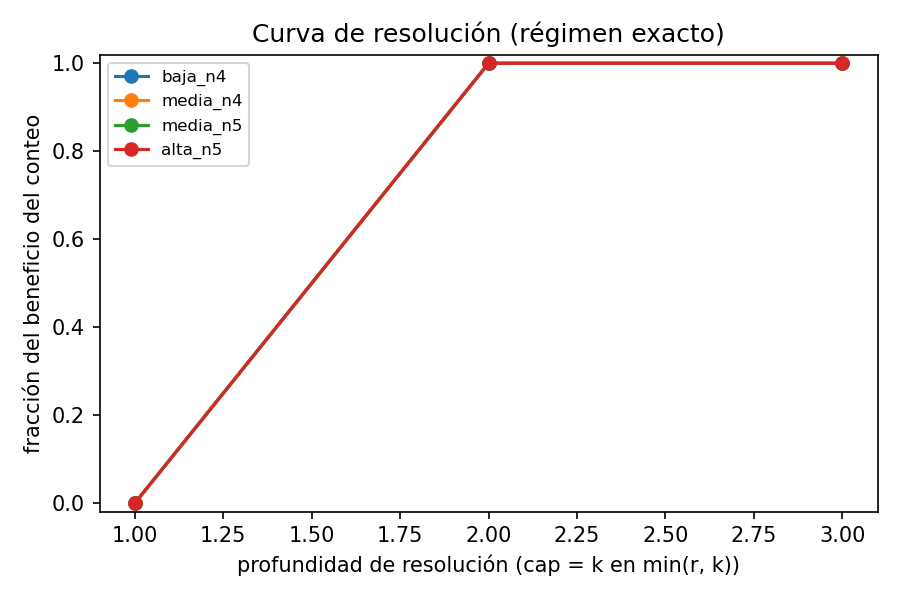
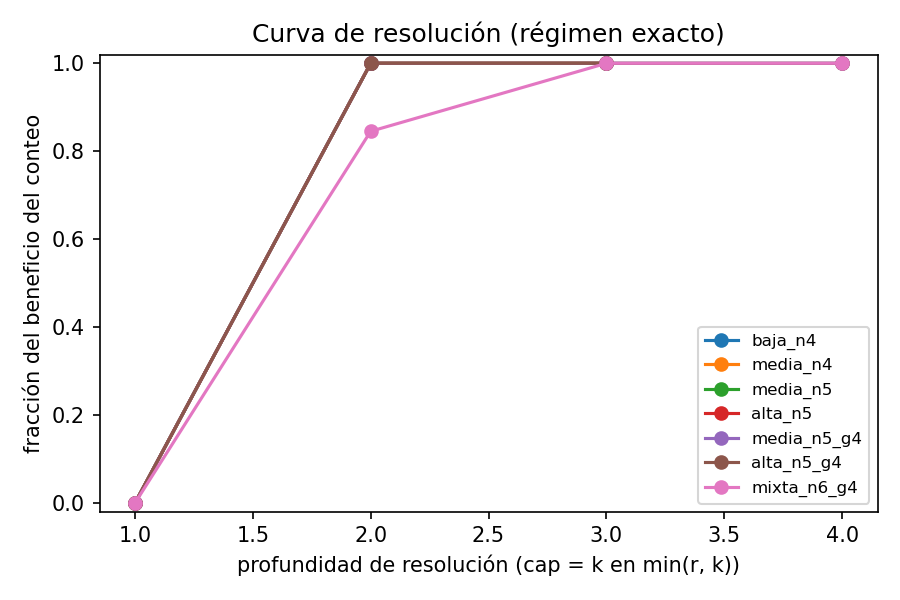
fix(resolution): add G>=4 instances so the curve shows interior resolution levels

diff --git a/augmented/experiments_resolution.py b/augmented/experiments_resolution.py
@@ -22,6 +22,15 @@ def default_instances():
         {"label": "media_n5", "p": [0.3, 0.5, 0.2, 0.7, 0.4], "u": [1, 2, 3, 1, 2], "B": 3, "G": 3},
         {"label": "alta_n5", "p": [0.6, 0.7, 0.5, 0.8, 0.55], "u": [1, 2, 3, 1, 2], "B": 3, "G": 3},
         {"label": "horizonte_b1_n4", "p": [0.3, 0.5, 0.2, 0.7], "u": [1, 2, 3, 1], "B": 1, "G": 3},
+        # G=4: cap_chain=[1,2,3,4] tiene dos niveles interiores (cap=2,3);
+        # a G=3 el único interior (cap=2) siempre satura en frac=1.0.
+        {"label": "media_n5_g4", "p": [0.3, 0.5, 0.4, 0.6, 0.35], "u": [1, 2, 3, 1, 2], "B": 3, "G": 4},
+        {"label": "alta_n5_g4", "p": [0.5, 0.6, 0.55, 0.65, 0.45], "u": [3, 1, 2, 1, 2], "B": 3, "G": 4},
+        # media_n5_g4 y alta_n5_g4 (n=5) saturan igual en cap=2 (frac=1.0):
+        # a n=5 con G=4 el pool máximo (4 de 5 activos) deja muy poco margen
+        # para que r=3 sea informativo. Con n=6 sí aparece un punto interior
+        # genuino (cap=2 < 1.0 antes de saturar en cap=3).
+        {"label": "mixta_n6_g4", "p": [0.15, 0.25, 0.35, 0.45, 0.55, 0.65], "u": [1, 2, 3, 1, 2, 3], "B": 3, "G": 4},
     ]
 
 

diff --git a/augmented/tests_resolution.py b/augmented/tests_resolution.py
@@ -115,6 +115,9 @@ def test_sweep_smoke():
     assert keys.issubset(rows[0].keys()), rows[0]
     # respeta el régimen exacto (Global Constraints): n <= 6
     assert all(row["n"] <= 6 for row in rows)
+    # chequeo barato (sin correr el barrido completo): TODAS las instancias
+    # declaradas deben respetar el régimen exacto N<=6, no solo la primera.
+    assert all(len(inst["p"]) <= 6 for inst in default_instances())
 
 
 # ---- Test runner ----
